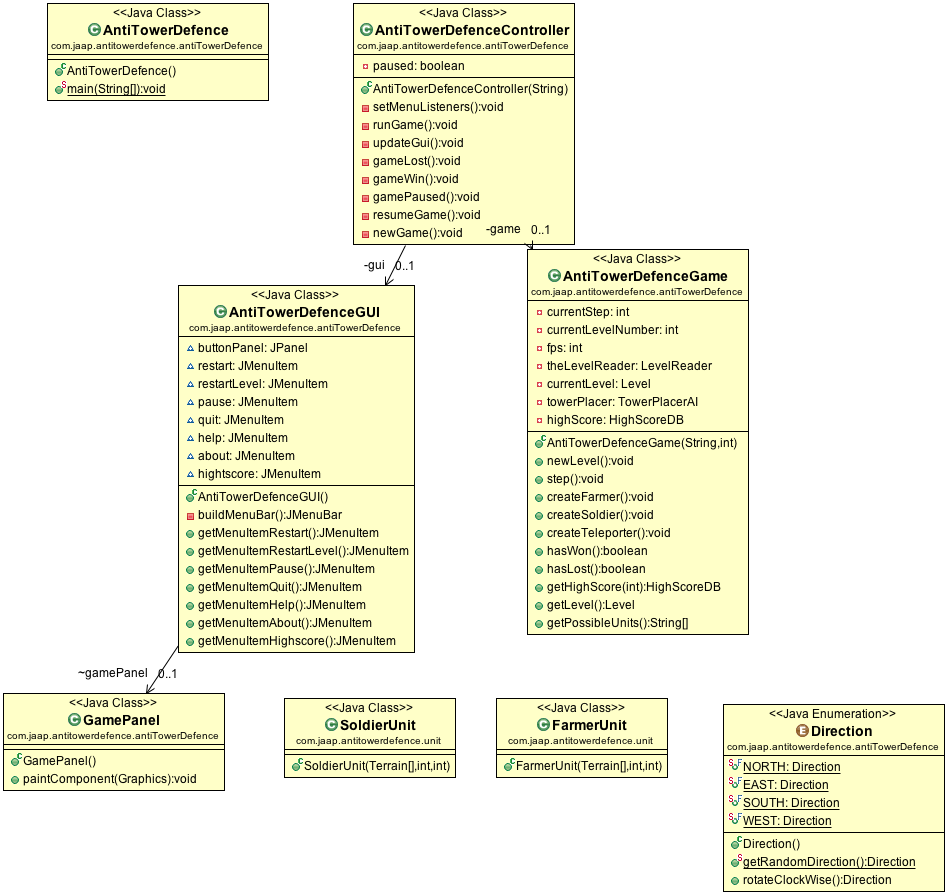
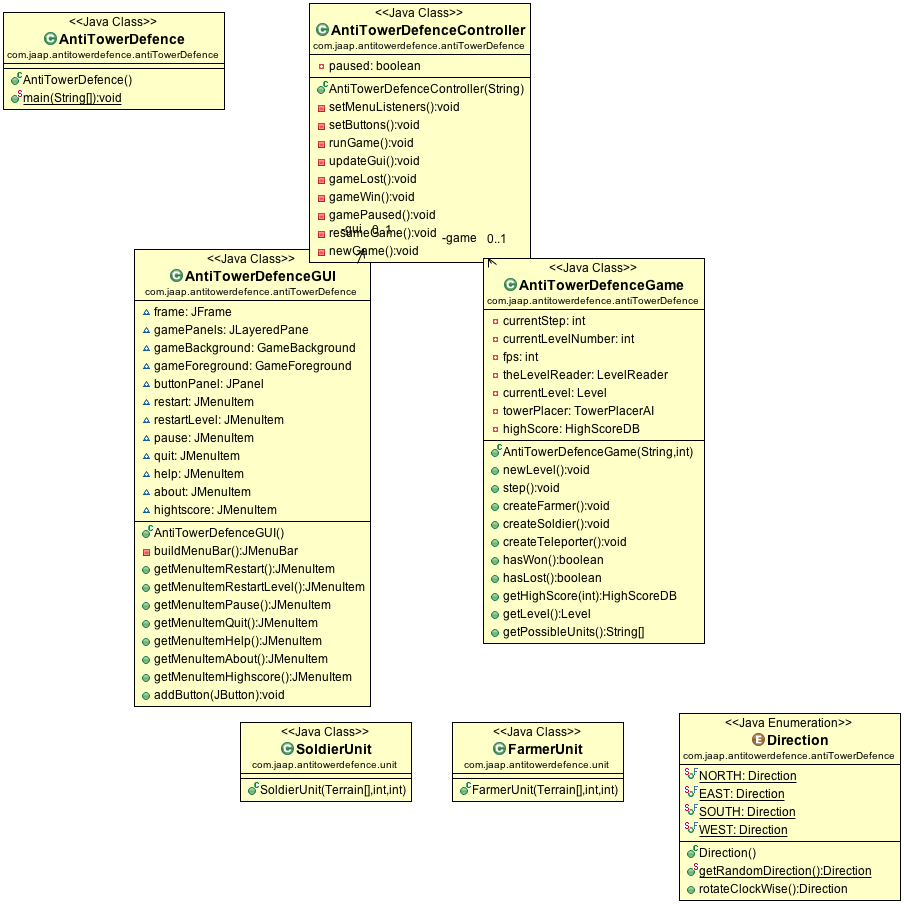
Remove and Rename

Changed region(s): [[0.0, 0.0, 0.8053, 0.905], [0.7434, 0.7844, 1.0, 0.9955], [0.0, 0.0, 0.3097, 0.1207]]

diff --git a/src/com/jaap/antitowerdefence/antiTowerDefence/TowerPlacerAI.java b/src/com/jaap/antitowerdefence/antiTowerDefence/TowerPlacerAI.java
@@ -1,27 +1,33 @@
 package com.jaap.antitowerdefence.antiTowerDefence;
 
+import java.util.ArrayList;
 import java.util.Random;
 
 import com.jaap.antitowerdefence.terrain.Terrain;
 
-public class TowerPlacerAI {
+/**
+ * 
+ * @author Peter Bjuhr & id10abk
+ *
+ */
+public class TowerPlacerAi {
 
     private int nrOfTowers;
     private int updateInterval;
     private Terrain[] possiblePositions;
 
     /**
-     * Creates the TowerPlacer
+     * This class get a map of buildable terrain and how many tower are allowed
+     * to build. Setup a updateInterval.
      * 
      * @param possiblePositions
-     *            , contains all terrain with positions where a tower can be
-     *            placed
+     *            A array of all buildable terrain.
      * @param nrOfTowers
-     *            , the number of towers
+     *            How many tower the AI can place.
      * @param fps
-     *            , how often does the game update
+     *            How often does the game update
      */
-    public TowerPlacerAI(Terrain[] possiblePositions, int nrOfTowers, int fps) {
+    public TowerPlacerAi(Terrain[] possiblePositions, int nrOfTowers, int fps) {
 	updateInterval = 20 * fps; // Should update every 20 sec
 	this.possiblePositions = possiblePositions;
 	this.nrOfTowers = nrOfTowers;
@@ -33,63 +39,40 @@ public class TowerPlacerAI {
      * @return newTowers, an array of towers
      */
     public Tower[] getNewTowers() {
-	Tower[] newTowers = new Tower[nrOfTowers];
-	Random rnd = new Random();
+	ArrayList<Tower> towers = new ArrayList<Tower>();
 
-	// Fill the array with towers
+	Random rand = new Random();
+
 	for (int i = 0; i < nrOfTowers; i++) {
-	    int index = rnd.nextInt(possiblePositions.length);
-	    System.out.println(index);
-	    // Find a position that no other tower have
+	    int index = rand.nextInt(possiblePositions.length);
 
-	    if (containsTower(newTowers)) {
-		while (containsPosition(newTowers,
+	    if (towers.isEmpty()) {
+		towers.add(new Tower(possiblePositions[index].getPosition()));
+
+	    } else if (!towers.isEmpty()) {
+		while (containsPosition(towers,
 			possiblePositions[index].getPosition())) {
-		    System.out.println("In while");
-		    index = rnd.nextInt(possiblePositions.length);
+		    index = rand.nextInt(possiblePositions.length);
 		}
-	    }
-	    System.out.println("It aftet while");
-	    newTowers[i] = new Tower(possiblePositions[index].getPosition());
-	    
-	    System.out.print(newTowers[i]!=null);
-	    System.out.println(" :it is good ");
-	}
-	return newTowers;
-    }
-
-    /**
-     * 
-     * @param towers
-     * @author id10abk
-     * @return
-     */
-    public boolean containsTower(Tower[] towers) {
-	for (Tower t : towers) {
-	    if (t != null) {
-		System.out.println(" not emtpy True");
-		return true;
+		towers.add(new Tower(possiblePositions[index].getPosition()));
 	    }
 	}
-	System.out.println(" emtpy False");
-	return false;
+	return writeToArray(towers);
     }
 
     /**
      * Check if a Tower array contains a tower with a certain position
      * 
      * @param towers
-     *            , the tower array
+     *            , The tower array.
      * @param position
-     *            , thw position
-     * @return true if the array doesnt contain the position, otherwise false
+     *            , The position.
+     * @return true if the array doesn't contain the position, otherwise false.
      */
-    public boolean containsPosition(Tower[] towers, Position p) {
-	int i=0;
-	for (Tower t : towers) {
-	    System.out.println(i++);
-	    System.out.println(t.getPosition().equals(p));
-	    if (t.getPosition().equals(p)) {
+    private boolean containsPosition(ArrayList<Tower> towers, Position p) {
+
+	for (int i = 0; i < towers.size(); i++) {
+	    if (p.equals(towers.get(i).getPosition())) {
 		return true;
 	    }
 	}
@@ -97,7 +80,7 @@ public class TowerPlacerAI {
     }
 
     /**
-     * determines if it is time to change the towers
+     * Determines if it is time to change the towers
      * 
      * @param timeStep
      *            , what timestep we are on
@@ -105,5 +88,19 @@ public class TowerPlacerAI {
      */
     public boolean timeToChange(int timeStep) {
 	return (timeStep % updateInterval == 0);
+    }
+
+    /**
+     * 
+     * @param Towers
+     *            ArreyList of towers place in on map
+     * @return Towers array
+     */
+    private Tower[] writeToArray(ArrayList<Tower> towers) {
+	Tower[] newTowers = new Tower[towers.size() - 1];
+	for (int i = 0; i < towers.size(); i++) {
+	    newTowers[i] = towers.remove(i);
+	}
+	return newTowers;
     }
 }
